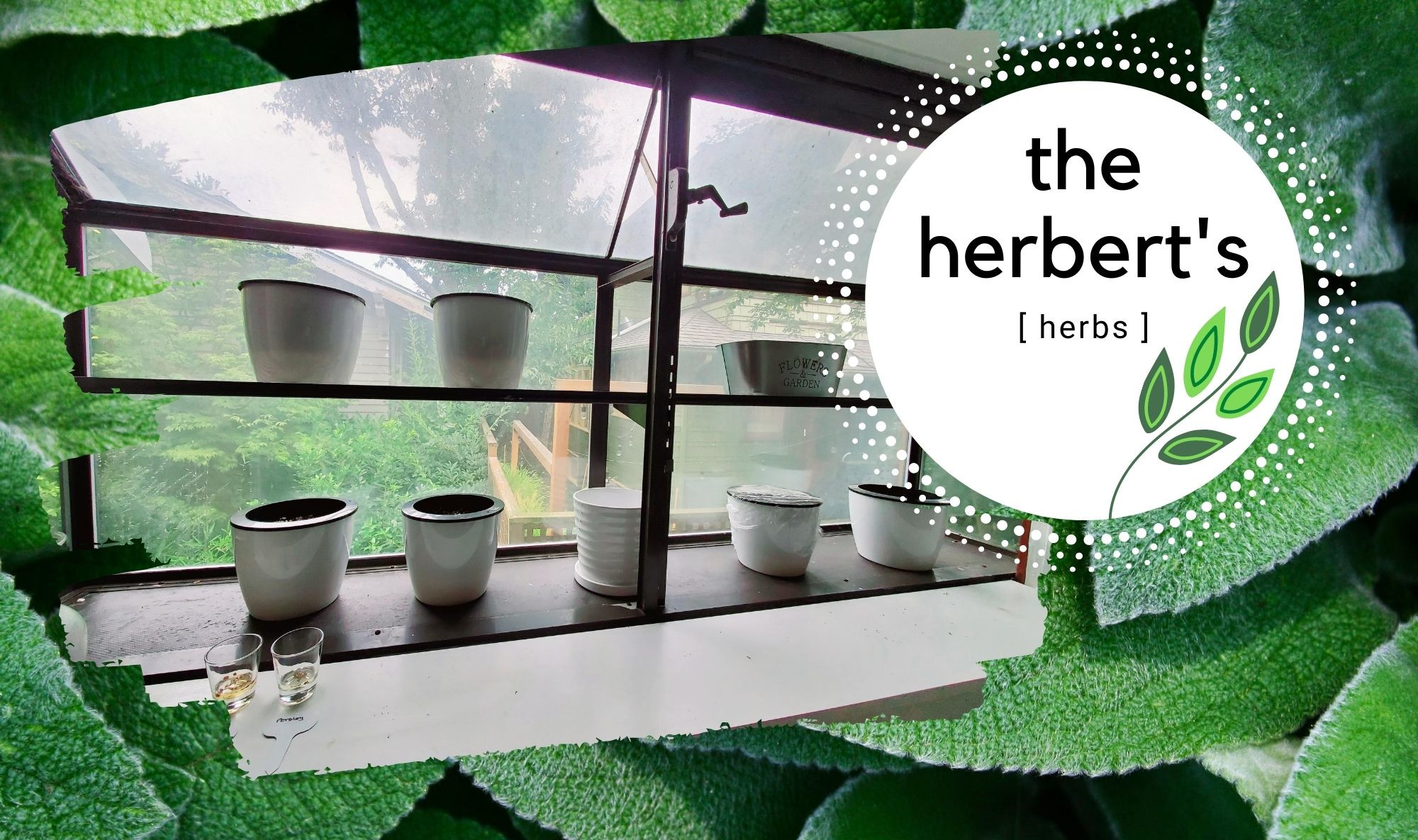
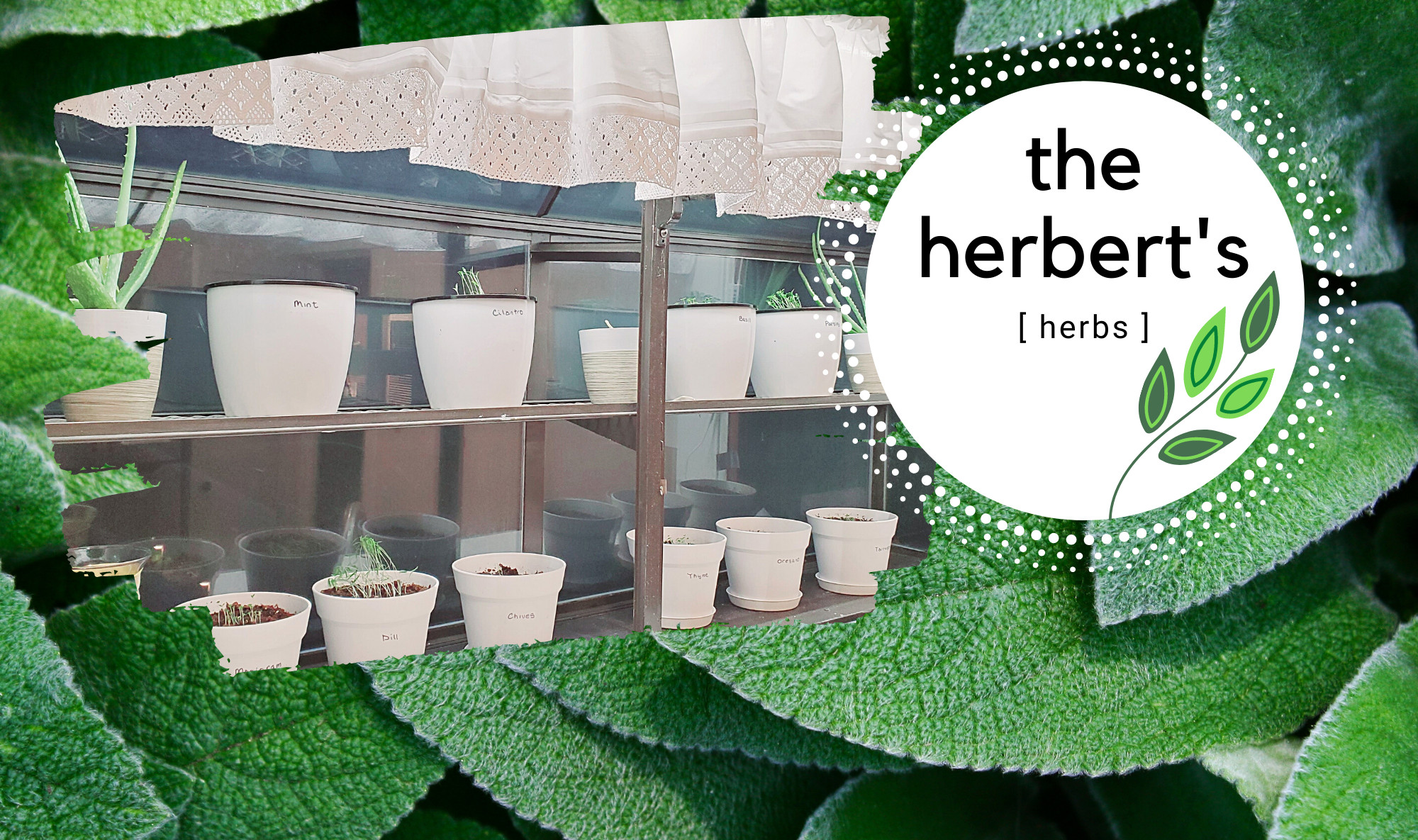
update Herbert

diff --git a/_pages/herbert.md b/_pages/herbert.md
@@ -10,9 +10,17 @@ toc: true
 
 #### Updates
 
-**Sept 01: Chives died, starting over**
+**Jul 20, 2021: Everything died, starting over...again!**
 
-<img class="figure-img" src="https://raw.githubusercontent.com/cndragn/garden/master/assets/images/herberts/chives-sept01.jpg">
+<img src="{{site.baseurl}}/assets/images/herberts/herbert-jul20-21.jpg">
+
+Things were going pretty well until winter hit, and then all my herbs died.  Now I know, the garden window is just way too cold in the winter, so I'll have to move them inside once the temperatures start to drop.  Another possibility is they just weren't getting enough light.  On a good day the garden window doesn't get any sun just some daylight, and in the winter it's super dark. My sister got me some plant lights, and already I can tell the huge difference its making.
+
+I planted all the seeds a couple weeks ago, on Jul 9th, and they all came to life within a week...except the mint.  I messed up! I covered the seeds with soil, but they need light to germinate.  I'm all out of mint seeds so going to order some more.  Mint is the one I want to grow most of all! I'd love to be able to kick back with a cup of mint tea while admiring my kitchen garden.
+
+**Sept 01, 2020: Chives died, starting over**
+
+<img class="figure-img" src="{{site.baseurl}}/assets/images/herberts/chives-sept01.jpg">
 
 Wish I'd taken a pic of how my chives were doing a week or so ago. They sprouted, started growing, then just...stopped. And then, they all died :( So, did some research and realized its one of those herbs that can't handle constant water, so being in the self watering pot killed it.
 
@@ -20,79 +28,79 @@ I've started over today, its still in the same pot, I just emptied the water res
 
 <hr/>
 
-**Aug 31 Moved Chives, Mint, Oregano & Thyme Outside**
+**Aug 31, 2020: Moved Chives, Mint, Oregano & Thyme Outside**
 
 Chives, Mint, Oregano and Thyme were struggling to grow while all the other Herberts are thriving, so I feel like they are not getting enough sun in the kitchen window. I've moved them outside, so hopefully I'll start seeing a difference soon. I also planted more seeds for Mint because there is still just that one solitary teeny little sprout.
 
 <hr/>
 
-**Aug 20: Planted cilantro seeds II**
+**Aug 20, 2020: Planted cilantro seeds II**
 
 After waiting almost two weeks with no sign of cilantro, I did some research and replanted with a few changes. I did not crush the seeds before soaking them overnight, did not cover the seeds with soil, and this time I put it in a dark place to germinate.
 
 <hr/>
 
-**Aug 17: Peeking Parsley / Mint Needs light to germinate**
+**Aug 17, 2020: Peeking Parsley / Mint Needs light to germinate**
 
-<img class="figure-img" src="https://raw.githubusercontent.com/cndragn/garden/master/assets/images/herberts/parsley-aug17.jpg">
+<img class="figure-img" src="{{site.baseurl}}/assets/images/herberts/parsley-aug17.jpg">
 
 It's like playing Where's Waldo to see the teeny bit of Parsley, but it's there! I've decided to leave the saran wrap on for another day and hopefully more will come through soon.
 
-Today I learned mint seeds should not be covered with soil. That was ot in the guide I used for planting seeds. So..today I sprinkled more seeds on top of the soil. So the new check date is Aug 27.
+Today I learned mint seeds should not be covered with soil. That was not in the guide I used for planting seeds. So..today I sprinkled more seeds on top of the soil. So the new check date is Aug 27.
 
 <hr/>
 
-**Aug 17: Dill and Chives sprouted**
+**Aug 17, 2020: Dill and Chives sprouted**
 
-<img class="figure-img" src="https://raw.githubusercontent.com/cndragn/garden/master/assets/images/herberts/dill-aug17.jpg">
+<img class="figure-img" src="{{site.baseurl}}/assets/images/herberts/dill-aug17.jpg">
 
 Dill wasted no time and coming in strong way ahead of the germination schedule!
 
 <hr/>
 
-<img class="figure-img" src="https://raw.githubusercontent.com/cndragn/garden/master/assets/images/herberts/chives-aug17.jpg">
+<img class="figure-img" src="{{site.baseurl}}/assets/images/herberts/chives-aug17.jpg">
 
 Way ahead of schedule Chives burst onto the scene! There was nothing to see when I did my morning rounds, but in the afternoon Chives decided it was done sitting in a dark closet and shot out the soil. I've moved them into the kitchen window to join the rest of the Herberts.
 
 <hr/>
 
-**Aug 16: Basil sprouted**
+**Aug 16, 2020: Basil sprouted**
 
-<img class="figure-img" src="https://raw.githubusercontent.com/cndragn/garden/master/assets/images/herberts/basil-aug16.jpg">
+<img class="figure-img" src="{{site.baseurl}}/assets/images/herberts/basil-aug16.jpg">
 
 Right on time according to the germination schedule, Basil made its appearance today!
 
 <hr/>
 
-**Aug 12: Oregano sprouted**
+**Aug 12, 2020: Oregano sprouted**
 
-<img class="figure-img" src="https://raw.githubusercontent.com/cndragn/garden/master/assets/images/herberts/oregano-aug12.jpg">
+<img class="figure-img" src="{{site.baseurl}}/assets/images/herberts/oregano-aug12.jpg">
 
 Teeny tiny sprouts, but they are off to a great start!
 
 <hr/>
 
-**Aug 10: Thyme spouted**
+**Aug 10, 2020: Thyme spouted**
 
-<img class="figure-img" src="https://raw.githubusercontent.com/cndragn/garden/master/assets/images/herberts/thyme-aug10.jpg">
+<img class="figure-img" src="{{site.baseurl}}/assets/images/herberts/thyme-aug10.jpg">
 
 Wasn't expecting this to happen for 3 weeks, but I already see sprouts!
 
 <hr/>
 
-<img class="figure-img" src="https://raw.githubusercontent.com/cndragn/garden/master/assets/images/herberts/cilantro-aug7.jpg">
+<img class="figure-img" src="{{site.baseurl}}/assets/images/herberts/cilantro-aug7.jpg">
 
-**Aug 8: Planted cilantro seeds**
+**Aug 8, 2020: Planted cilantro seeds**
 
 <hr/>
 
-**Aug 7: Planted thyme seeds / Soaking parsley and cilantro seeds**
+**Aug 7, 2020: Planted thyme seeds / Soaking parsley and cilantro seeds**
 
 I used one of the travel pots from my other plants to plant Thyme since they had drainage, then put it into a cute tin planter that Ski got awhile ago. I found a tip to cover with saran wrap until the seeds germinate, hopefully that will work!
 
 <hr/>
 
-<img class="figure-img" src="https://raw.githubusercontent.com/cndragn/garden/master/assets/images/herberts/parsley-aug7.jpg">
+<img class="figure-img" src="{{site.baseurl}}/assets/images/herberts/parsley-aug7.jpg">
 
 Read advice to soak Parsley seeds overnight before planting. After that, I'll plant them in one of the self watering pots and cover with saran wrap.
 
@@ -102,15 +110,15 @@ Cilantro will need a couple days of soaking before I can plant them. I'll put th
 
 <hr/>
 
-**Aug 7: Planted mint and oregano seeds**
+**Aug 7, 2020: Planted mint and oregano seeds**
 
-<img class="figure-img" src="https://raw.githubusercontent.com/cndragn/garden/master/assets/images/herberts/mint-aug7.jpg">
+<img class="figure-img" src="{{site.baseurl}}/assets/images/herberts/mint-aug7.jpg">
 
 I put Mint in a self watering pot. There wasn't a whole lot of info about mint except that it grows pretty wild and crazy outdoors. It seems to be a pretty easy herb to grow and take care of...will see! This one was a bit of a priority for us...it will be great to make tea and drinks with.
 
 <hr/>
 
-<img class="figure-img" src="https://raw.githubusercontent.com/cndragn/garden/master/assets/images/herberts/thyme-oregano-aug7.jpg">
+<img class="figure-img" src="{{site.baseurl}}/assets/images/herberts/thyme-oregano-aug7.jpg">
 
 Like with thyme, Oregano doesn't need a whole lot of water and prefer to be dried out, so I didnt put these in a self watering pot. I think that eventually, I'll get window planters with drainage and repot this with thyme.
 
@@ -118,65 +126,47 @@ Like with thyme, Oregano doesn't need a whole lot of water and prefer to be drie
 
 #### Thyme
 
-**Description and Care**
-
 Germination: 21-28 days<br/>
 Harvest: 50-70 days<br/>
-Planted: Aug 7<br/>
-Sprouted: Aug 10
+Planted: Jul 9<br/>
 
 Does well when planted along with Oregano. Both of these herbs do better when not constantly watered. Water deeply only when soil is completely dry.
 
 #### Parsley
 
-**Description and Care**
-
 Germination: 10-25 days<br/>
 Harvest: 30-60 days<br/>
-Planted: Aug 8<br/>
-Sprouted: Aug 17
+Planted: Jul 9<br/>
 
 Harvest when leaf stems have three segments. Cut leaves from the outer portions of the plant whenever you need them. Leave the inner portions of the plant to mature.
 
 #### Cilantro
 
-**Description and Care**
-
 Germination: 7-14 days<br/>
 Harvest: 50-70 days<br/>
-Planted: Aug 20<br/>
-Check on: Aug 27<br/>
+Planted: Jul 9<br/>
 
 Before planting seeds, gently crush them, let them soak for 24-48 hours, then let them dry.
 
 #### Mint
 
-**Description and Care**
-
 Germination: 10-15 days<br/>
 Harvest: 45-60 days<br/>
-Planted: Aug 17<br/>
-Check on: Aug 27
+Planted: Jul 9<br/>
 
 Needs light to germinate, do not cover with soil.
 
 #### Oregano
 
-**Description and Care**
-
 Germination: 7-14 days<br/>
 Harvest: 35-44 days<br/>
 Planted: Aug 7<br/>
-Sprouted: Aug 12
 
 #### Basil
 
-**Description and Care**
-
 Germination: 5-10 days<br/>
 Harvest: 30-60 days<br/>
-Planted: Aug 12<br/>
-Sprouted: Aug 16
+Planted: Jul 9<br/>
 
 Harvest:
 After the seedlings have produced their first six leaves, prune to above the second set. This encourages the plants to start branching, resulting in more leaves for harvest.
@@ -187,22 +177,36 @@ After about 6 weeks, pinch off the center shoot to prevent early flowering. If f
 
 #### Dill
 
-**Description and Care**
-
 Germination: 10-14 days<br/>
 Harvest: 25-40 days<br/>
-Planted: Aug 12<br/>
-Sprouted: Aug 17
+Planted: Jul 9<br/>
+
+Dill grows a long tap root, and needs a container at least 12 inches deep.
+
+When temperatures rise, dill tends to "bolt" and send up flower stalks so it can set seeds. Cut the flower stalks after the yellow blooms have faded, place a small paper bag with a few tiny holes for ventilation, and wait for the seeds to fall and gather in the bottom of the bag.
 
 #### Chives
 
-**Description and Care**
-
 Germination: 10-14 days<br/>
 Harvest: 30-40 days<br/>
-Planted: Aug 12<br/>
-Sprouted: Aug 17
+Planted: Jul 9<br/>
 
-lace the pot in a dark spot in temperatures 60 to 70 F. (15 to 21 C.) until the seeds sprout, then move them into the light.
+Place the pot in a dark spot in temperatures 60 to 70 F. (15 to 21 C.) until the seeds sprout, then move them into the light.
 
 Once the chives are about a foot tall, simply snip off what you need.
+
+#### Marjoram
+
+Germination: 14-21 days<br/>
+Harvest: 60 days<br/>
+Planted: Jul 9<br/>
+
+After seeding, keep soil moist and give around 16hrs of light a day.
+
+#### Tarragon
+
+Germination: 7-14 days<br/>
+Harvest: 90 days<br/>
+Planted: Jul 9<br/>
+
+Leaves can be harvested as soon as the shoots are about six inches tall. Cut the stem back to four to six inches, just below a leaf node.
